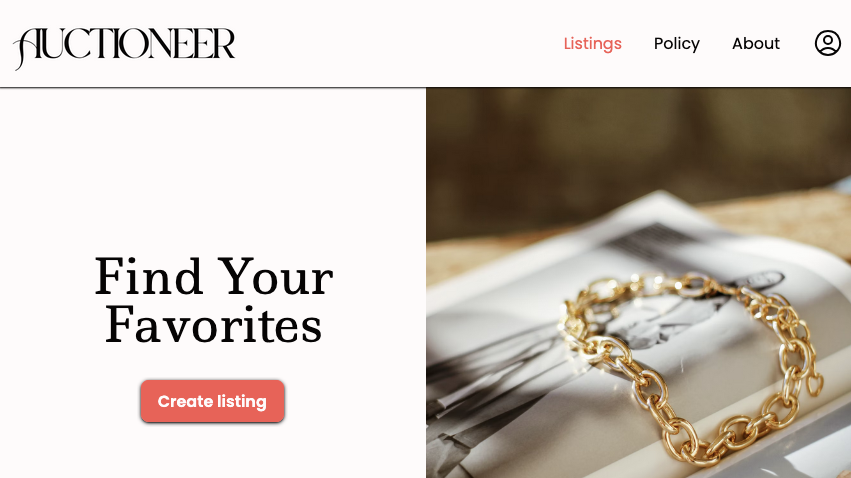
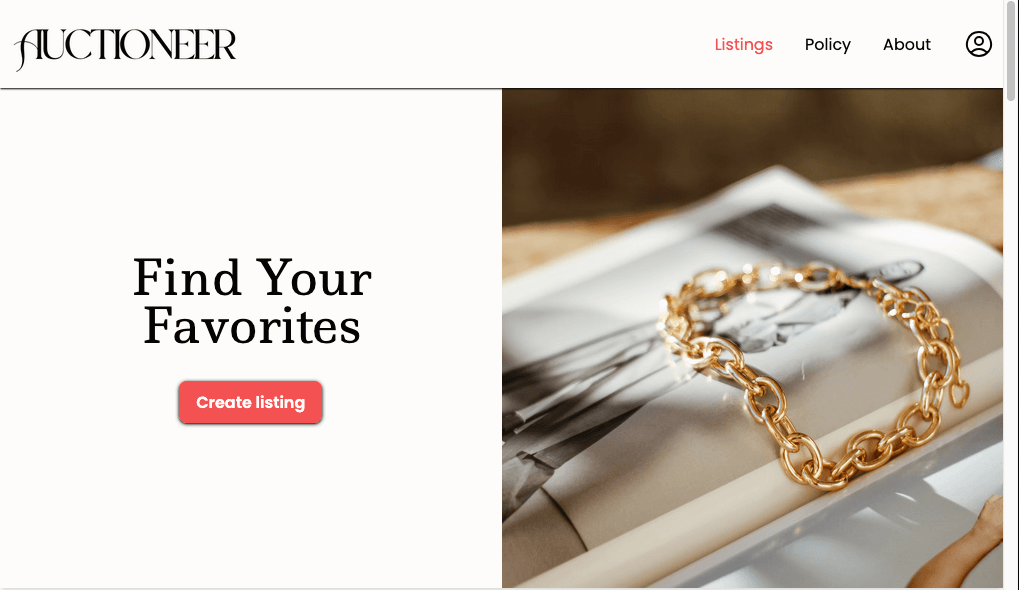
Added code blocks to readme, Optimized screenshot image, Moved node_modules to .gitignore, Remove defer from module script in head, Remove unnecessary catch and throw in registerHandler and loginHandler

diff --git a/js/handlers/auth/loginHandler.js b/js/handlers/auth/loginHandler.js
@@ -2,7 +2,6 @@ import { loginUser } from "../../api/auth/loginUser.js";
 import { setToken, setUsername } from "../../utils/localStorage.js";
 import { displayMessage } from "../../utils/displayMessage.js";
 import { showLoader, hideLoader } from "../../utils/loader.js";
-import { updateHeader } from "../../utils/updateHeader.js";
 
 export function loginHandler() {
   const loginForm = document.querySelector("#login-form");
@@ -45,11 +44,7 @@ async function submitLoginForm(event) {
   const formData = new FormData(form);
   const credentials = Object.fromEntries(formData);
 
-  try {
-    const data = await loginUser(credentials);
-    setToken(data.data.accessToken);
-    setUsername(data.data.name);
-  } catch (error) {
-    throw error;
-  }
+  const data = await loginUser(credentials);
+  setToken(data.data.accessToken);
+  setUsername(data.data.name);
 }

diff --git a/js/handlers/listings/displayFeedListings.js b/js/handlers/listings/displayFeedListings.js
@@ -32,12 +32,17 @@ export async function displayFeedListings(page = 1) {
 
     currentPage = page;
     applyFiltersAndRender(listings, listingsContainer);
-    renderPaginationControls(
-      paginationContainer,
-      totalPages,
-      currentPage,
-      displayFeedListings
-    );
+
+    if (listings.length > 0 && totalPages > 1) {
+      renderPaginationControls(
+        paginationContainer,
+        totalPages,
+        currentPage,
+        displayFeedListings
+      );
+    } else {
+      paginationContainer.innerHTML = "";
+    }
 
     listingsContainer.scrollIntoView({ behavior: "smooth", block: "start" });
 

diff --git a/css/style.css b/css/style.css
@@ -789,6 +789,11 @@ video {
   margin: 0px;
 }
 
+.mx-1{
+  margin-left: 0.25rem;
+  margin-right: 0.25rem;
+}
+
 .mx-2{
   margin-left: 0.5rem;
   margin-right: 0.5rem;
@@ -2447,11 +2452,6 @@ video {
   line-height: 1;
 }
 
-.text-lg{
-  font-size: 1.125rem;
-  line-height: 1.75rem;
-}
-
 .text-sm{
   font-size: 0.875rem;
   line-height: 1.25rem;
@@ -2555,6 +2555,11 @@ video {
 .text-dark{
   --tw-text-opacity: 1;
   color: rgb(6 4 4 / var(--tw-text-opacity, 1));
+}
+
+.text-gray-500{
+  --tw-text-opacity: 1;
+  color: rgb(107 114 128 / var(--tw-text-opacity, 1));
 }
 
 .text-green-600{

diff --git a/account/profile.html b/account/profile.html
@@ -23,7 +23,7 @@
     />
     <link rel="manifest" href="../images/favicons/site.webmanifest" />
     <link rel="stylesheet" href="../css/style.css" />
-    <script src="../js/script.js" type="module" defer></script>
+    <script src="../js/script.js" type="module"></script>
   </head>
   <body class="bg-light min-h-screen grid grid-rows-[auto_1fr_auto] text-dark">
     <header class="sticky top-0 z-50 bg-light">

diff --git a/listings/index.html b/listings/index.html
@@ -23,7 +23,7 @@
     />
     <link rel="manifest" href="../images/favicons/site.webmanifest" />
     <link rel="stylesheet" href="../css/style.css" />
-    <script src="../js/script.js" type="module" defer></script>
+    <script src="../js/script.js" type="module"></script>
   </head>
   <body class="bg-light min-h-screen grid grid-rows-[auto_1fr_auto] text-dark">
     <header class="sticky top-0 z-50 bg-light">

diff --git a/account/login.html b/account/login.html
@@ -23,7 +23,7 @@
     />
     <link rel="manifest" href="../images/favicons/site.webmanifest" />
     <link rel="stylesheet" href="../css/style.css" />
-    <script src="../js/script.js" type="module" defer></script>
+    <script src="../js/script.js" type="module"></script>
   </head>
   <body class="bg-light min-h-screen grid grid-rows-[auto_1fr_auto] text-dark">
     <header class="sticky top-0 bg-light">

diff --git a/account/register.html b/account/register.html
@@ -23,7 +23,7 @@
     />
     <link rel="manifest" href="../images/favicons/site.webmanifest" />
     <link rel="stylesheet" href="../css/style.css" />
-    <script src="../js/script.js" type="module" defer></script>
+    <script src="../js/script.js" type="module"></script>
   </head>
   <body class="bg-light min-h-screen grid grid-rows-[auto_1fr_auto] text-dark">
     <header class="sticky top-0 bg-light">

diff --git a/index.html b/index.html
@@ -24,7 +24,7 @@
     />
     <link rel="manifest" href="images/favicons/site.webmanifest" />
     <link rel="stylesheet" href="css/style.css" />
-    <script src="js/script.js" type="module" defer></script>
+    <script src="js/script.js" type="module"></script>
   </head>
   <body class="bg-light min-h-screen grid grid-rows-[auto_1fr_auto] text-dark">
     <header class="sticky top-0 bg-light z-50">

diff --git a/js/handlers/auth/registerHandler.js b/js/handlers/auth/registerHandler.js
@@ -43,9 +43,5 @@ async function submitRegisterForm(event) {
   const formData = new FormData(form);
   const data = Object.fromEntries(formData);
 
-  try {
-    await registerUser(data);
-  } catch (error) {
-    throw error;
-  }
+  await registerUser(data);
 }

diff --git a/README.md b/README.md
@@ -1,10 +1,10 @@
-# semester-project-2 Auctioneer
+# Auctioneer
 
 ![Project Screenshot](./images/screenshot.png)
 
 ## Description
 
-This assignment asked to build an auction website for a fictional client. I made up a client called auctioneer, and made them a platform where people can buy and sell their items.
+Auctioneer is an auctions website built for a fictional client as Semester Project 2 for Noroff Front-end development. It is a platform where people can register a user, and buy and sell their items. It is live at https://semester-project-2-auctioneer.netlify.app/
 
 ## Pages
 
@@ -38,17 +38,25 @@ This assignment asked to build an auction website for a fictional client. I made
 
 ### Running the project locally
 
-1. Clone this repository: git clone https://github.com/stineknutsen/semester-project-2
+1. Clone this repository
 
-2. Install dependencies: npm install
+```bash
+git clone https://github.com/stineknutsen/semester-project-2
+```
+
+2. Install dependencies:
+
+```bash
+npm install
+```
 
 3. Use Live Server to open index.html in your browser
 
-4. Run script: npm run build
+4. Run script:
 
-### Viewing the deployed site on netlify
-
-https://semester-project-2-auctioneer.netlify.app/
+```bash
+npm run build
+```
 
 ## Contact
 
